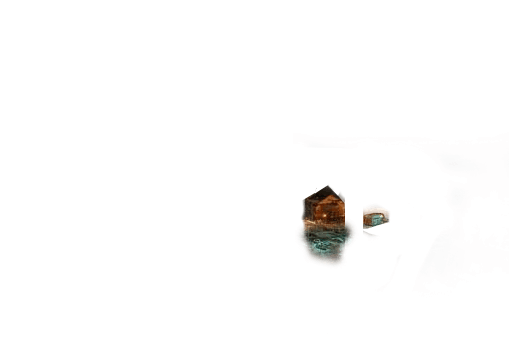
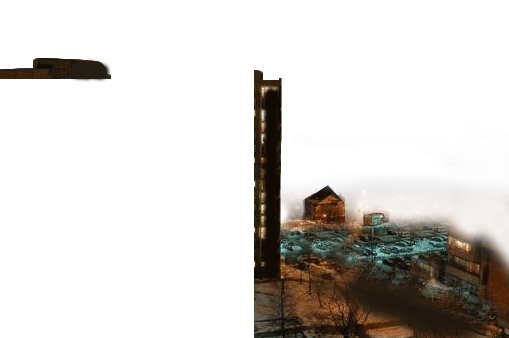
EHH-3 better 3d

Changed region(s): [[0.501, 0.2071, 1.0, 1.0], [0.0, 0.1479, 0.2358, 0.2367], [0.9725, 0.5917, 1.0, 0.6213]]

diff --git a/index.html b/index.html
@@ -9,6 +9,7 @@
         <meta name="twitter:image" content="http://deykun.it/niedziela-wieczur/niedziela-wieczur-zdjecie.png" />
         <meta name="twitter:title" content="Niedziela wieczur...." />
         <meta name="twitter:description" content="I humor popsuty...." />
+        <meta property="og:image" content="http://deykun.it/niedziela-wieczur/niedziela-wieczur-demotywator.jpg" />
         <meta property="og:image" content="http://deykun.it/niedziela-wieczur/niedziela-wieczur-zdjecie.png" />
         <meta property="og:title" content="Niedziela wieczur...." />
         <meta property="og:description" content="I humor popsuty...." />
@@ -37,6 +38,7 @@
             <div class="plane">
                 <div class="js-tilt">
                     <img class="photo mode-flat-photo" src="./niedziela-wieczur-zdjecie.png" alt="Na zdjęciu polskie blokowisko wieczurem, klimat zdjęcia wywołuje u osoby oglądającej uczucie nostalgii">
+                    <img class="photo mode-layered-photo sky blured" src="./images/niedziela-wieczur-niebo.jpg" alt="Wieczorne niebo">
                     <img class="photo mode-layered-photo sky" src="./images/niedziela-wieczur-niebo.jpg" alt="Wieczorne niebo">
                     <img class="photo mode-layered-photo background" src="./images/niedziela-wieczur-ziemia.png" alt="Na zdjęciu polskie blokowisko wieczurem, klimat zdjęcia wywołuje u osoby oglądającej uczucie nostalgii">
                     <img class="photo mode-layered-photo signal" loading="lazy" src="./images/antena-z-mema.png" alt="Antena widoczna z blokowiska o memie humor popsuty">
@@ -83,7 +85,9 @@
                 }
 
                 $('.js-tilt').tilt({
-                    scale: 0.9,
+                    // scale: 1.2,
+                    speed: 1500, // enter/exit
+                    // perspective: 1000,
                 });
 
                 $('#photo-switch').on('click', () => {

diff --git a/styles.css b/styles.css
@@ -35,6 +35,12 @@ main {
     margin-top: -150px;
 }
 
+@media screen and (max-width: 700px) {
+    .plane {
+        transform: scale(0.4);
+    }
+}
+
 .js-tilt {
     position: relative;
     transform-style: preserve-3d;
@@ -69,7 +75,7 @@ main {
         #2e2934 32%,
         #2e2934 33%,
         #301f1d 35%,
-        #5b4d3b 39%,
+        #28241f 39%,
         #3b2b26 41%,
         #5b4d3b 42%,
         #050403 43%,
@@ -79,6 +85,12 @@ main {
         #794a2a 68%,
         #73755e 100%
     );
+}
+
+.photo.sky.blured {
+    filter: blur(5px);
+    height: 450px;
+    width: 600px;
 }
 
 .photo.background {
@@ -208,6 +220,12 @@ main {
     width: 10vw;
     background-color: transparent;
     transition: border .2s ease-in-out;
+}
+
+@media screen and (max-width: 700px) {
+    .turn-off-border {
+        display: none;
+    }
 }
 
 .turn-off-border.left:hover,
